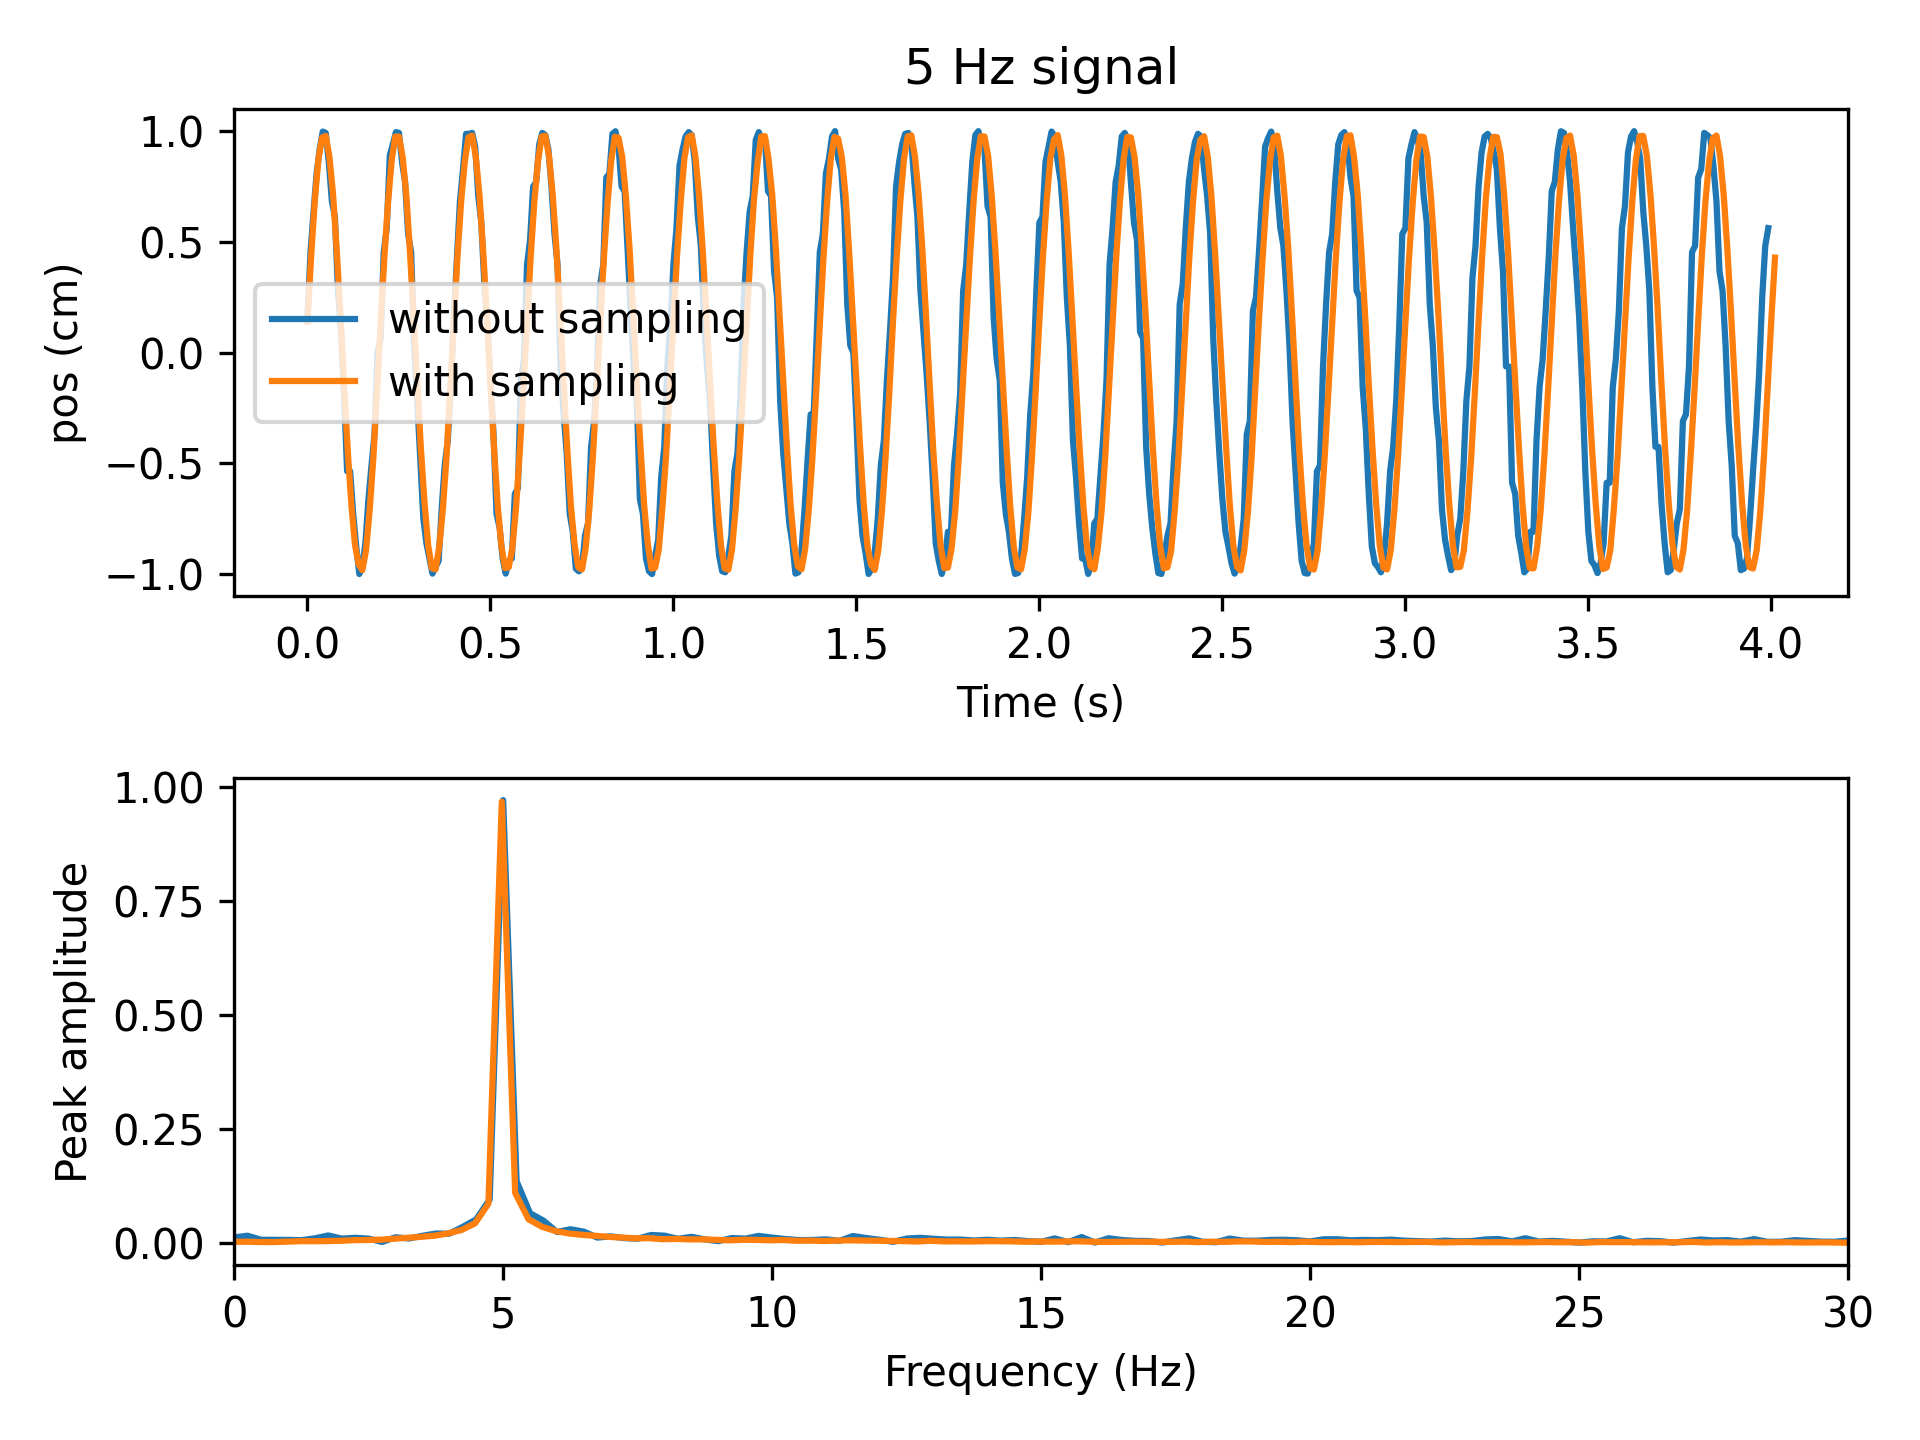
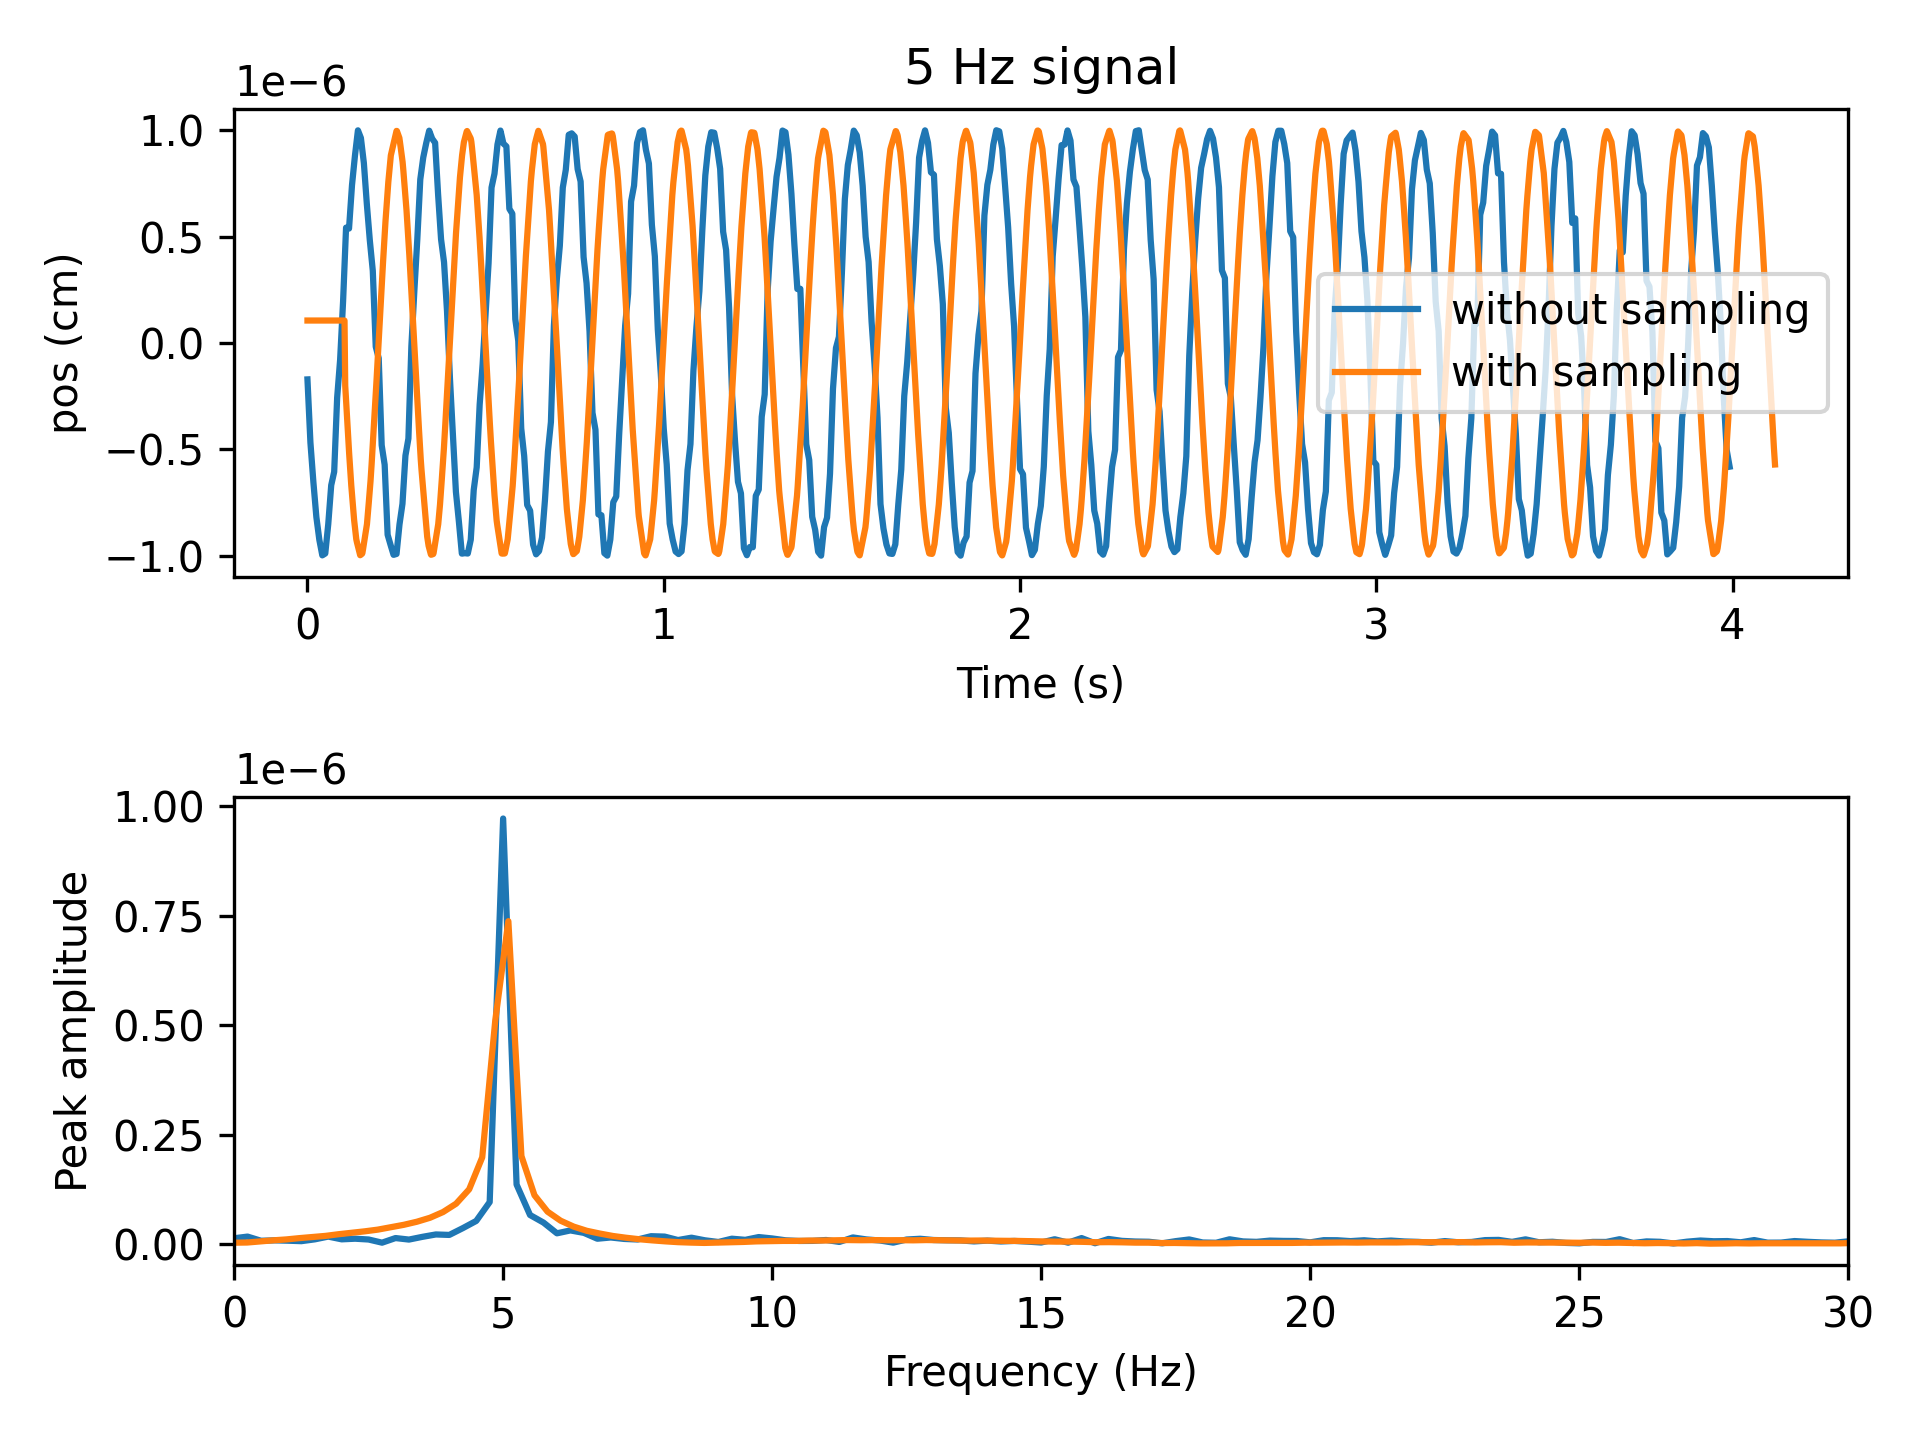
update test

diff --git a/aopy/preproc/base.py b/aopy/preproc/base.py
@@ -236,7 +236,7 @@ def interp_timestamps2timeseries(timestamps, timestamp_values, samplerate=None, 
         sampling_points = np.arange(timestamps[0], timestamps[-1]+(1/samplerate), 1/samplerate)
 
     # Interpolate
-    f_interp = interpolate.interp1d(timestamps, timestamp_values, kind=interp_kind, fill_value=extrap_values, axis=0)
+    f_interp = interpolate.interp1d(timestamps, timestamp_values, kind=interp_kind, fill_value=extrap_values, bounds_error=False, axis=0)
     timeseries = f_interp(sampling_points)
 
     return timeseries, sampling_points
@@ -268,7 +268,7 @@ def sample_timestamped_data(data, timestamps, samplerate, upsamplerate=None, app
         upsamplerate = samplerate * 100
 
     time = np.arange(int((timestamps[-1] + append_time)*upsamplerate))/upsamplerate # add extra time
-    data_time, _ = interp_timestamps2timeseries(timestamps, data, sampling_points=time, interp_kind='linear')
+    data_time, _ = interp_timestamps2timeseries(timestamps, data, sampling_points=time, interp_kind='linear', extrap_values=(timestamps[0], timestamps[-1]))
     data_time = precondition.downsample(data_time, upsamplerate, samplerate)
     return data_time
 

diff --git a/tests/test_preproc.py b/tests/test_preproc.py
@@ -154,18 +154,19 @@ class DigitalCalcTests(unittest.TestCase):
         np.random.seed(0)
         duration = 4
         freq = 5
-        samplerate = 1000
+        samplerate = 25000
         ground_truth_data = utils.generate_multichannel_test_signal(duration*2, samplerate, 2, freq, 1)
         
         fps = 120
         nt = fps*duration
+        offset = 0.1 # timestamps start strictly after time zero
         framerate_error = 0.01*np.random.uniform(size=(nt,)) # 10 ms jitter
         drift = np.cumsum(0.0001*np.random.uniform(size=(nt,))) # 0.1 ms drift
-        timestamps = np.arange(nt)/fps + framerate_error + drift
+        timestamps = offset + np.arange(nt)/fps + framerate_error + drift
         samples = (timestamps * samplerate).astype(int)
 
         frame_data = ground_truth_data[samples,:]
-        interp_samplerate = 100
+        interp_samplerate = 1000
         interp_data = sample_timestamped_data(frame_data, timestamps, interp_samplerate)
 
         fig, ax = plt.subplots(2,1)
